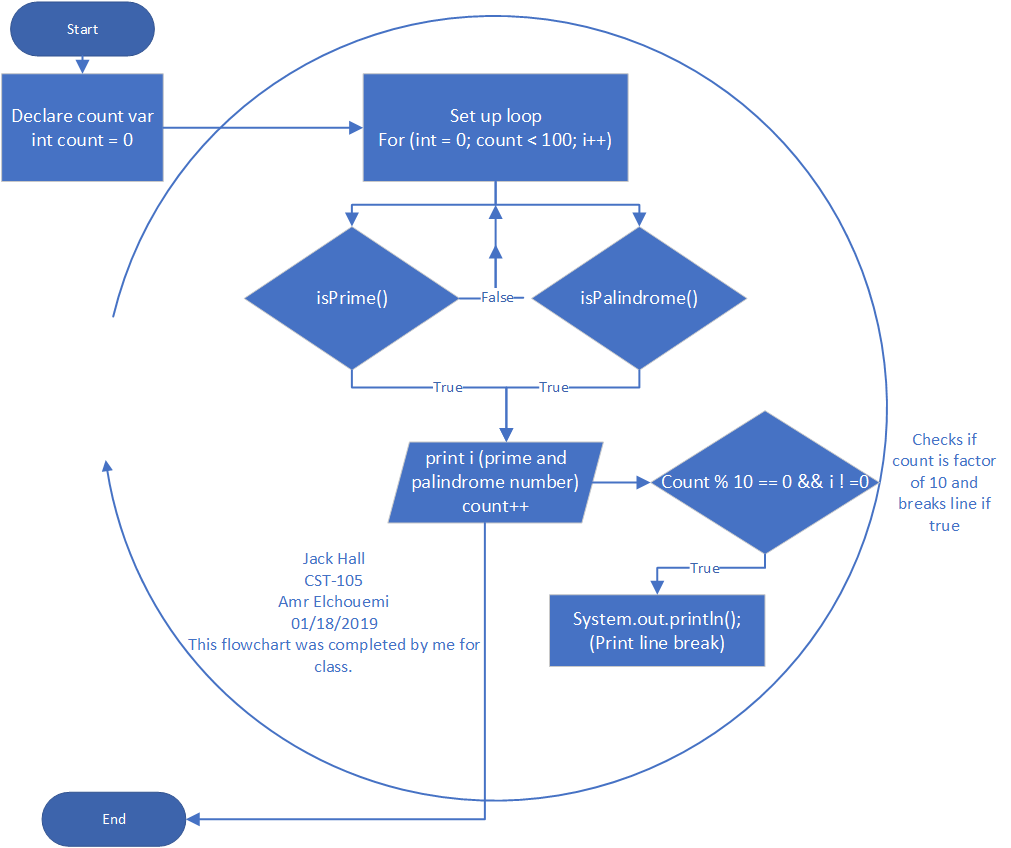
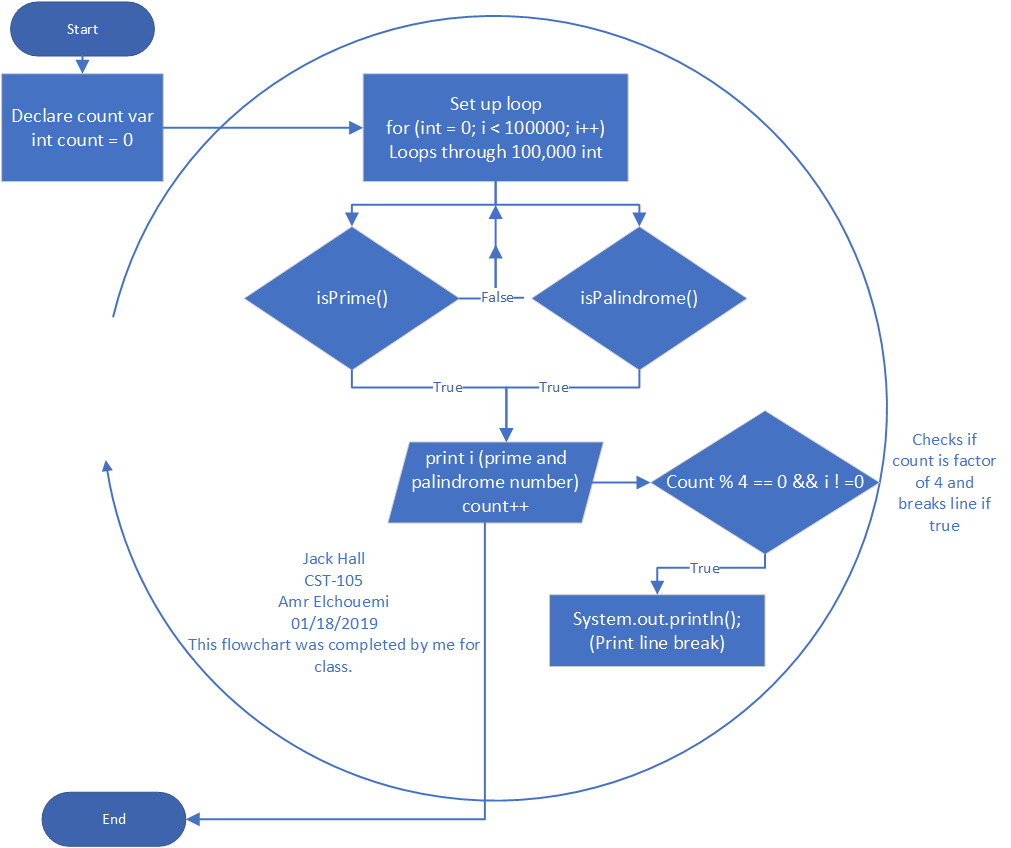
revision to main flowchart and PalindromeAndPrime program

Changed region(s): [[0.368, 0.1226, 0.6133, 0.184], [0.6439, 0.5519, 0.8586, 0.5825], [0.8892, 0.5519, 0.9812, 0.5825]]

diff --git a/Week-8 Deliverables/PalindromeAndPrime.java b/Week-8 Deliverables/PalindromeAndPrime.java
@@ -15,12 +15,12 @@ public class PalindromeAndPrime {
 		// TODO Auto-generated method stub
 
 		int count = 0;
-		for (int i = 0; count < 100; i++) {
+		for (int i = 0; i < 100000; i++) {
 
 			if (isPrime(i) && isPalindrome(i)) {
-				System.out.printf("%10d", i);
+				System.out.printf("%12d", i);
 				count++;
-				if (count % 10 == 0 && i != 0)
+				if (count % 4 == 0 && i != 0)
 					System.out.println();
 
 			}
